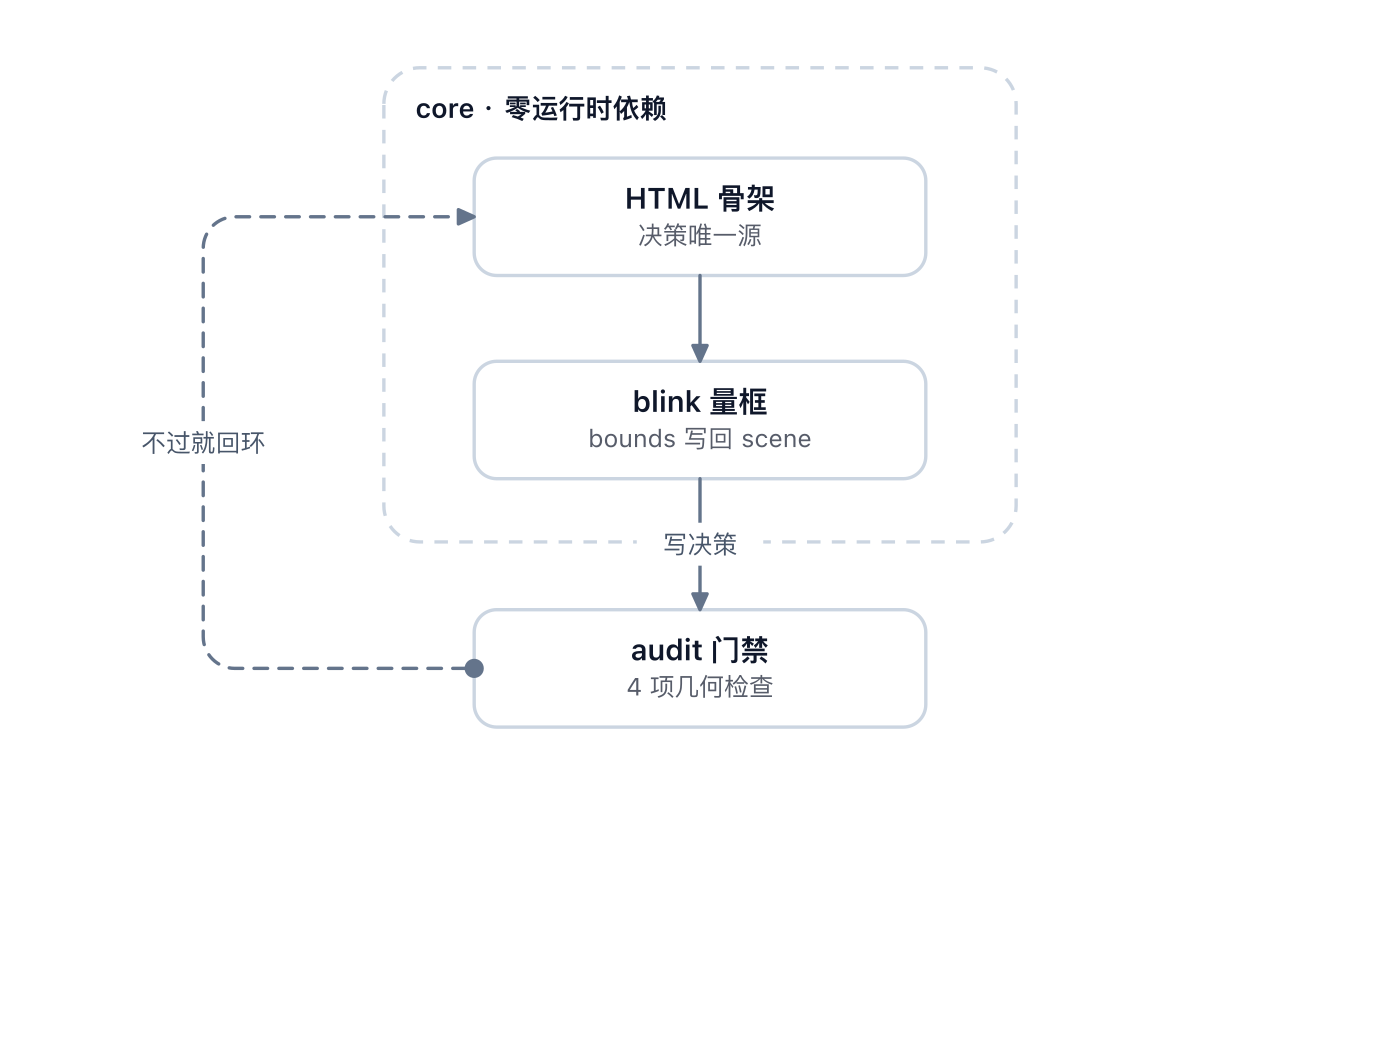
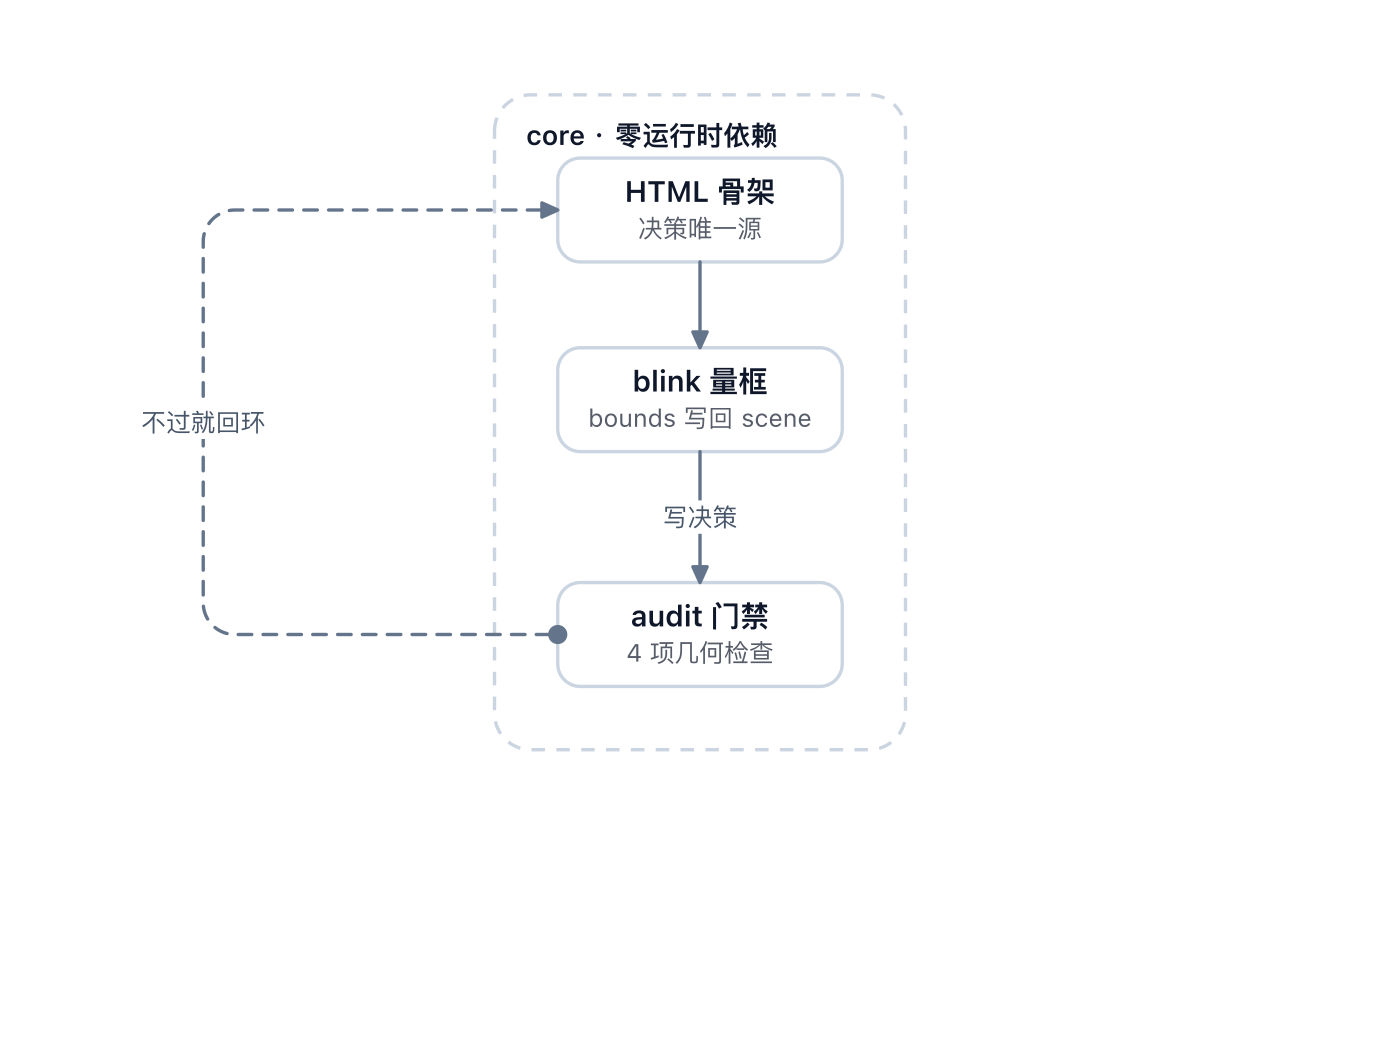
refactor(examples): basic.ts 坐标全派生重写, inspect DEMO 改真派生
- basic.ts: 48 个坐标字面量 → 7 个具名决策常量; 组框走 bounds 派生(修掉漂移: 旧框 y30..240 盖不住节点三 270..322); PNG 快照重出
- inspect DEMO: 组框/折点由手抄派生结果改为真派生(bounds+GROUP_FIT_PAD / routeOrthogonal), 读数输出逐字节不变
- 零字节迁移(cmp 验证): full-chain 改 pitch: 100; port-folds REL_B 改 below(rightOf(...))
- manifest what 与 examples/README 桶表同一次改

diff --git a/examples/start/basic.ts b/examples/start/basic.ts
@@ -4,50 +4,100 @@
 // 这一档就是设计稿 §6.3 说的"第一类公民路径": 单独 shape + 尺寸就能出图。
 // ⚠ 它是**描述符层**示例: 直接拼 `svg()` 出图, 不经 scene、不过门禁 —— 要看走门禁的主路径读
 // `start/full-chain.ts` / `gallery/node-forms.ts`。
-// 坐标手给正是这一档的性质; 圆角解算 / 端点几何 / 遮罩片仍然全是 core 算的。
+//
+// 坐标来源(260925 重写): 盒尺寸走 `nodeFit` · 三盒 y 链走 `packCol` · 边端点与回环走 `rectFace` ·
+// 缝间标签走 `mid` · 标签尺寸走 `labelBoxSize` · 组框走 `bounds(成员, { pad })`。
+// 重写前这些是散在 55 行里的 48 个坐标字面量: 边的端点 y(122/160/212)是盒底 / 盒顶的心算结果,
+// 回环的两个 y(296/96)是两条 `centerY` 关系写成裸数, 组框更是手算的**漂移**值 ——
+// 框底压在"写决策"上、三号盒整个挂在框外(旧快照里肉眼可见)。圆角解算 / 端点几何 / 遮罩片
+// 仍然全是 core 算的; 变的是"坐标从哪来"。
+// 手写数字只剩下面那几个**具名作者决策常量** —— 版式是作者的, 几何是 core 的。
 // =====================================================================
 
 import { svg } from '../../src/descriptor';
 import { toSVG } from '../../src/serialize';
-import { edgeShape } from '../../src/shapes/edge';
+import { edgeShape, labelBoxSize } from '../../src/shapes/edge';
 import { groupShape } from '../../src/shapes/group';
 import { nodeShape } from '../../src/shapes/node';
 import { labelBoxShape } from '../../src/shapes/text';
-import { edgeGeometry, nodeGeometry } from '../../src/index';
+import {
+  GROUP_FIT_PAD, bounds, edgeGeometry, mid, nodeFit, nodeGeometry, packCol, placeRect, rectFace,
+} from '../../src/index';
 import type { Descriptor } from '../../src/descriptor';
 
-const W = 620;
-const H = 460;
+// --- 作者决策: 只有这一段的数是手写的, 每个都说清为什么 ----------------------
 
-const box = { x: 210, y: 70, w: 200, h: 52 };
+const W = 620, H = 460;        // 画布: 沿用重写前的版心 —— 教学图的画布是作者给的, 不随内容浮动
+const COL_X = W / 2;           // 盒列中线 = 画布中线: 三盒同轴且整列骑中线, 左右留白才对称
+const TOP_Y = 70;              // 首盒顶边: 上方要留出组框标题那一带(框顶到首盒顶就是框的 pad)
+const SEAM_GAPS = [38, 58];    // 缝的节奏: 主干两跳各 38、到门禁那一跳放 58 —— 与重写前同节奏
+const CORRIDOR_X = 90;         // 回环走廊的 x: 盒列左侧那条竖走廊(版式不是推导 —— 回环要读得出是"绕外面走")
+const LOOP_RADIUS = 14;        // 回环折点磨圆半径: 自检读的就是它, 两处必须同值
+const GROUP_TITLE = 'core · 零运行时依赖';
+
+// --- 盒: 尺寸由内容反算, 位置由 pack 摆 --------------------------------------
+
+/** 三条节点的内容 —— 盒尺寸从它反算, 字也从它画(`nodeShape` 与 `nodeFit` 同一份) */
+const NODES = [
+  { label: 'HTML 骨架', sub: '决策唯一源' },
+  { label: 'blink 量框', sub: 'bounds 写回 scene' },
+  { label: 'audit 门禁', sub: '4 项几何检查' },
+] as const;
+
+// 三盒同尺寸 = 三条反算结果取大(盒是内容驱动的下限, 取大保证三条都装得下且盒子齐整)
+const fits = NODES.map((n) => nodeFit(n));
+const BOX = { w: Math.max(...fits.map((f) => f.w)), h: Math.max(...fits.map((f) => f.h)) };
+const col = packCol({ items: [BOX, BOX, BOX], gap: SEAM_GAPS, x: COL_X, y0: TOP_Y, align: 'center' });
+const boxes = col.rects;
+const [html, blink, audit] = boxes;
+
+// --- 缝间标签与组框: 位置走 mid, 范围走 bounds -------------------------------
+
+// 标签骑在**两盒端口的中点**上(旧版是心算出来的 241); 尺寸走 `labelBoxSize` —— 遮罩片只求盖住
+// 墨迹, 所以按墨迹口径给, 不是 `textFit` 的行盒口径
+const seamCenter = mid(rectFace(blink, 'bottom'), rectFace(audit, 'top'));
+const seamSize = labelBoxSize('写决策');
+const seamRect = placeRect({ w: seamSize.width, h: seamSize.height }, seamCenter);
+
+// 组框 = 成员并集 + pad: 成员是三盒 + 缝间标签(它在列内, 并不撑开并集 —— 写进成员是为了让
+// "框跟着成员走"这句话在代码里也成立)。pad 走仓内 `GROUP_FIT_PAD`(呼吸位 + 4 余量, 与派生框
+// 门禁同源): 框顶那一段留白要容得下组标题(inner 位移 + 一行墨高), 框宽则被标题顶着 ——
+// 标题比三盒的并集还宽, 所以横向余量按它给是够的, 再小就顶框了。
+// 回环标签**不是**成员 —— 它是回环那条边的旁注, 留在走廊那侧; 进并集会把框拉到整条回环上。
+const frame = bounds([...boxes, seamRect], { pad: GROUP_FIT_PAD })!;
+
+// 回环: 两端落在两盒的**左面中点**, 中间借走廊竖着串起来(只有走廊 x 是作者给的)
+const loopFrom = rectFace(audit, 'left');
+const loopTo = rectFace(html, 'left');
+const loopPts = [loopFrom, { x: CORRIDOR_X, y: loopFrom.y }, { x: CORRIDOR_X, y: loopTo.y }, loopTo];
+const loopCenter = mid({ x: CORRIDOR_X, y: loopFrom.y }, { x: CORRIDOR_X, y: loopTo.y });
+const loopSize = labelBoxSize('不过就回环');
 
 const content: Descriptor[] = [
-  groupShape({ x: 170, y: 30, w: 280, h: 210, label: 'core · 零运行时依赖', radius: 16 }),
+  groupShape({ ...frame, label: GROUP_TITLE, radius: 16 }),
 
-  nodeShape({ ...box, label: 'HTML 骨架', sub: '决策唯一源' }),
-  nodeShape({ x: 210, y: 160, w: 200, h: 52, label: 'blink 量框', sub: 'bounds 写回 scene' }),
-  nodeShape({ x: 210, y: 270, w: 200, h: 52, label: 'audit 门禁', sub: '4 项几何检查' }),
+  ...boxes.map((r, i) => nodeShape({ ...r, ...NODES[i] })),
 
-  // 主干: 竖直下行的正交折线, 圆角 + 三角形端点
-  edgeShape({ points: [{ x: 310, y: 122 }, { x: 310, y: 160 }], end: 'arrow-triangle' }),
-  edgeShape({ points: [{ x: 310, y: 212 }, { x: 310, y: 270 }] }),
+  // 主干: 竖直下行的正交折线, 圆角 + 三角形端点 —— 端点取自两盒的面中点, 一个坐标不手写
+  edgeShape({ points: [rectFace(html, 'bottom'), rectFace(blink, 'top')], end: 'arrow-triangle' }),
+  edgeShape({ points: [rectFace(blink, 'bottom'), rectFace(audit, 'top')] }),
   // 边标签: **不是 edgeShape 的参数**(那会造成第二条上屏路径) —— 走 labelBoxShape(或 edgeLabel),
   // 位置与尺寸进 scene.labels, 渲染与审计读同一份(设计稿 §3 ③)。
-  labelBoxShape({ x: 310, y: 241, w: 56, h: 19, content: '写决策' }),
+  labelBoxShape({ x: seamCenter.x, y: seamCenter.y, w: seamSize.width, h: seamSize.height, content: '写决策' }),
 
   // 回环: 左绕上行, 虚线 + 折点磨圆(看半径是否被邻段钳制)
   edgeShape({
-    points: [{ x: 210, y: 296 }, { x: 90, y: 296 }, { x: 90, y: 96 }, { x: 210, y: 96 }],
-    radius: 14, dash: '6 5', start: 'dot-solid', end: 'arrow-triangle',
+    points: loopPts,
+    radius: LOOP_RADIUS, dash: '6 5', start: 'dot-solid', end: 'arrow-triangle',
   }),
-  labelBoxShape({ x: 90, y: 196, w: 80, h: 19, content: '不过就回环' }),
+  labelBoxShape({ x: loopCenter.x, y: loopCenter.y, w: loopSize.width, h: loopSize.height, content: '不过就回环' }),
 ];
 
 // 解算结果自检: 半径被钳制的角必须为 0(本例盒子够大)
-const g = nodeGeometry({ ...box, radius: 10 });
+const g = nodeGeometry({ ...html, radius: 10 });
 if (g.clamped.length) console.error('警告: 被钳制的角', g.clamped, 'minActualRadius=', g.minActualRadius);
 
-const loop = edgeGeometry({ points: [{ x: 210, y: 296 }, { x: 90, y: 296 }, { x: 90, y: 96 }, { x: 210, y: 96 }], radius: 14 });
+const loop = edgeGeometry({ points: loopPts, radius: LOOP_RADIUS });
 console.error(`回环: 原长 ${loop.length.toFixed(1)} → 折点 ${loop.points.length}, 磨圆半径 ${loop.tangents.map((t) => t.actualRadius.toFixed(1)).join('/')}`);
 
 if (import.meta.main) {

diff --git a/scripts/inspect.ts b/scripts/inspect.ts
@@ -27,6 +27,10 @@
 //   那种文件的顶层会往 stdout 吐 SVG, 把读数冲成混合产物。
 // =====================================================================
 
+import { type Rect } from '../src/geometry/vec';
+import { bounds } from '../src/geometry/box';
+import { GROUP_FIT_PAD } from '../src/knives/cluster';
+import { routeOrthogonal } from '../src/knives/route';
 import { type Scene, audit } from '../src/knives/audit';
 import { describeScene } from '../src/knives/describe';
 
@@ -38,24 +42,43 @@ const USAGE = `用法: bun run scripts/inspect.ts [<scene-module.ts>] [--metrics
   --rows=N           每段最多 N 行(缺省 40)
   --notes=N          每个对象下最多 N 条诊断(缺省 3)`;
 
+// --- 内置演示场景: 只有版式是手写的, 几何一律现算 ----------------------------------
+
+// 三格的盒尺寸与位置是**作者决策**(演示场景的版式: 左列上下两格 + 右侧一格)
+const BOX = { w: 160, h: 56 };
+const IN: Rect = { x: 60, y: 60, ...BOX };
+const MID: Rect = { x: 60, y: 156, ...BOX };
+const OUT: Rect = { x: 420, y: 130, ...BOX };
+
+// 折点一个都不手写: 两条边各跑一次 route, 拿回的点列就是 scene 里那一份
+// (e-1 直连两格上下; e-2 从 mid 右边出、绕腰线进 out 左边)
+const E1 = routeOrthogonal({ from: IN, fromPort: { side: 'bottom' }, to: MID, toPort: { side: 'top' } });
+const E2 = routeOrthogonal({ from: MID, fromPort: { side: 'right' }, to: OUT, toPort: { side: 'left' } });
+
+// 组框 = 成员(in / mid 两格)并集 + `GROUP_FIT_PAD`(常量从 `knives/cluster` 引, 不抄数字)——
+// 与 audit / describe 的派生同一份口径, 所以读数里 derived 那行与 rect **必然**逐字相同
+const GROUP_RECT = bounds([IN, MID], { pad: GROUP_FIT_PAD })!;
+
 /**
- * 内置演示场景: 2 列 3 行 + 一条折线 + 一个组框, **全部门禁通过** —— 不给路径时跑它(示范代码必须
- * 能自己跑起来)。"它仍然全绿"这件事由 `test/inspect-demo.test.ts` 守着 —— 判据归 test, 本文件不再
- * 自带断言: 断言长在 CLI 里时, 不真的跑一次就**没有任何机器在看着它**。
- * 组框刻意写成"成员并集 + `GROUP_FIT_PAD`", 所以读数里 derived 那行应与 rect 逐字相同。
+ * 内置演示场景: 左列上下两格 + 右侧一格, 两条边(一直一折) + 一个组框, **全部门禁通过** ——
+ * 不给路径时跑它(示范代码必须能自己跑起来)。"它仍然全绿"这件事由 `test/inspect-demo.test.ts` 守着
+ * —— 判据归 test, 本文件不再自带断言: 断言长在 CLI 里时, 不真的跑一次就**没有任何机器在看着它**。
+ *
+ * 除版式之外一律派生(260925): 折点走 `routeOrthogonal`、组框走 `bounds(成员, { pad })` ——
+ * 于是读数里 derived 那行与 rect 逐字相同是**算出来的**, 不是手抄了一份同值坐标。
  */
 export const DEMO: Scene = {
   width: 640, height: 420,
   nodes: [
-    { id: 'in', rect: { x: 60, y: 60, w: 160, h: 56 }, label: '输入' },
-    { id: 'mid', rect: { x: 60, y: 156, w: 160, h: 56 }, label: '处理' },
-    { id: 'out', rect: { x: 420, y: 130, w: 160, h: 56 }, label: '产物' },
+    { id: 'in', rect: IN, label: '输入' },
+    { id: 'mid', rect: MID, label: '处理' },
+    { id: 'out', rect: OUT, label: '产物' },
   ],
   edges: [
-    { id: 'e-1', from: 'in', to: 'mid', points: [{ x: 140, y: 116 }, { x: 140, y: 156 }] },
-    { id: 'e-2', from: 'mid', to: 'out', points: [{ x: 220, y: 184 }, { x: 320, y: 184 }, { x: 320, y: 158 }, { x: 420, y: 158 }] },
+    { id: 'e-1', from: 'in', to: 'mid', points: E1.points },
+    { id: 'e-2', from: 'mid', to: 'out', points: E2.points },
   ],
-  groups: [{ id: 'g-box', rect: { x: 32, y: 32, w: 216, h: 208 }, label: '本地', contains: ['in', 'mid'] }],
+  groups: [{ id: 'g-box', rect: GROUP_RECT, label: '本地', contains: ['in', 'mid'] }],
 };
 
 function fail(msg: string): never {

diff --git a/examples/checks/port-folds.ts b/examples/checks/port-folds.ts
@@ -27,7 +27,7 @@
 
 import {
   type Pt, type Rect, type RouteRequest, type RouteResult, type Scene, type SceneText, type Side, type Tone,
-  THEMES, add, grid, nodeFit, rectBottom, rectRight, routeAll, textFit,
+  THEMES, add, below, grid, nodeFit, rectBottom, rectRight, rightOf, routeAll, textFit,
 } from '../../src/index';
 import { runScene } from '../../scripts/runner';
 
@@ -56,8 +56,12 @@ const BOX_H = Math.max(fitA.h, fitB.h);
 // (见 `route.ts` 文件头 ③, 那时折线会突然绕远)。70 是作者给的余量, 不是门禁要求。
 const CORRIDOR = 70;
 const TITLE_ZONE = 48;                     // 格顶 → A 盒顶: 装标题 + 折法两行
+// 四格的两盒统一尺寸: `place` 的糖面吃尺寸对象(不吃 fit), 尺寸对不齐就谈不上"同一套相对坐标"
+const BOX_SIZE = { w: BOX_W, h: BOX_H };
 const REL_A: Rect = { x: 0, y: TITLE_ZONE, w: BOX_W, h: BOX_H };
-const REL_B: Rect = { x: BOX_W + CORRIDOR, y: TITLE_ZONE + BOX_H + CORRIDOR, w: BOX_W, h: BOX_H };
+// B 在 A 的右下方各隔一条走廊(`align: 'start'` = 贴 A 的左边 / 顶边) —— 走 `rightOf` / `below`
+// 糖面直说这句话, 不再自己写 `BOX_W + CORRIDOR` 这种换算
+const REL_B: Rect = below(rightOf(REL_A, BOX_SIZE, CORRIDOR, { align: 'start' }), BOX_SIZE, CORRIDOR, { align: 'start' });
 
 const TITLE_SIZE = 12, CAPTION_SIZE = 10.5, HEAD_SIZE = 17, DESC_SIZE = 12;
 const CELL_W = REL_B.x + BOX_W;

diff --git a/examples/manifest.ts b/examples/manifest.ts
@@ -48,7 +48,7 @@ export const GROUP_LABEL: Record<ExampleGroup, string> = {
 export const EXAMPLES: ExampleEntry[] = [
   // ── start ────────────────────────────────────────────────────────────
   { key: 'basic', group: 'start', file: 'examples/start/basic.ts',
-    what: '描述符层最小路径: 手拼 descriptor 直出 SVG(不经 scene、不过门禁)' },
+    what: '描述符层最小路径: 直出 descriptor(不经 scene、不过门禁), 坐标全走派生(`nodeFit` / `packCol` / `rectFace` / `bounds`)' },
   { key: 'full-chain', group: 'start', file: 'examples/start/full-chain.ts',
     what: '主路径全链 scene → route → audit → export, 且 `--golden` 是字节对账入口' },
 

diff --git a/test/inspect-demo.test.ts b/test/inspect-demo.test.ts
@@ -20,8 +20,9 @@ describe('inspect · 内置演示场景必须全绿', () => {
     }
   });
 
-  it('组框刻意写成"成员并集 + GROUP_FIT_PAD": 派生框与手写 rect 逐字相同', () => {
-    // 这条守 demo 的自我一致性 —— 框比成员大或小, 读数里 derived 那行就会与 rect 分岔
+  it('组框确实是"成员并集 + GROUP_FIT_PAD": 派生框与 DEMO 里的 rect 逐字相同', () => {
+    // 这条守 demo 的自我一致性 —— DEMO 的框走 `bounds(成员, { pad: GROUP_FIT_PAD })`, 与这里的
+    // `deriveGroupRect` 同一份口径; 框比成员大或小, 读数里 derived 那行就会与 rect 分岔
     const box = DEMO.groups?.[0];
     expect(box).toBeDefined();
     expect(deriveGroupRect(DEMO, box!.id)).toEqual(box!.rect);

diff --git a/examples/start/full-chain.ts b/examples/start/full-chain.ts
@@ -20,7 +20,7 @@ const H = 400;
 // 五格同尺寸(这张图讲的是链路, 盒尺寸是手定的: 150 × 46)
 const BOX = { w: 150, h: 46 };
 // 一条链(竖排, 节距 100)+ 两个出口(横排) —— 摆位走 pack, 与折点走 route 是同一条纪律
-const chain = packCol({ items: [BOX, BOX, BOX], gap: 100 - BOX.h, x: 250, y0: 40, align: 'start' });
+const chain = packCol({ items: [BOX, BOX, BOX], pitch: 100, x: 250, y0: 40, align: 'start' });
 const sinks = packRow({ items: [BOX, BOX], gap: 170, y: 330, x0: 90, align: 'start' });
 const [html, blink, audit] = chain.rects;
 const [readme, board] = sinks.rects;

diff --git a/examples/README.md b/examples/README.md
@@ -16,7 +16,7 @@
 
 | 键名 | 文件 | 这张图证明什么 |
 |---|---|---|
-| `basic` | `start/basic.ts` | 描述符层最小路径: 手拼 descriptor 直出 SVG(**不经 scene、不过门禁**) |
+| `basic` | `start/basic.ts` | 描述符层最小路径: 直出 descriptor(**不经 scene、不过门禁**); 坐标全走派生(`nodeFit` 盒 / `packCol` 列 / `rectFace` 端点 / `bounds` 组框) |
 | `full-chain` | `start/full-chain.ts` | 主路径全链 `scene → route → audit → export`; `--golden` 出 sha256 供字节对账 |
 
 要开一张新图**从 `full-chain` 抄** —— 它的出口是 fail-closed 的标准姿势(现在收在 `scripts/runner.ts`)。
